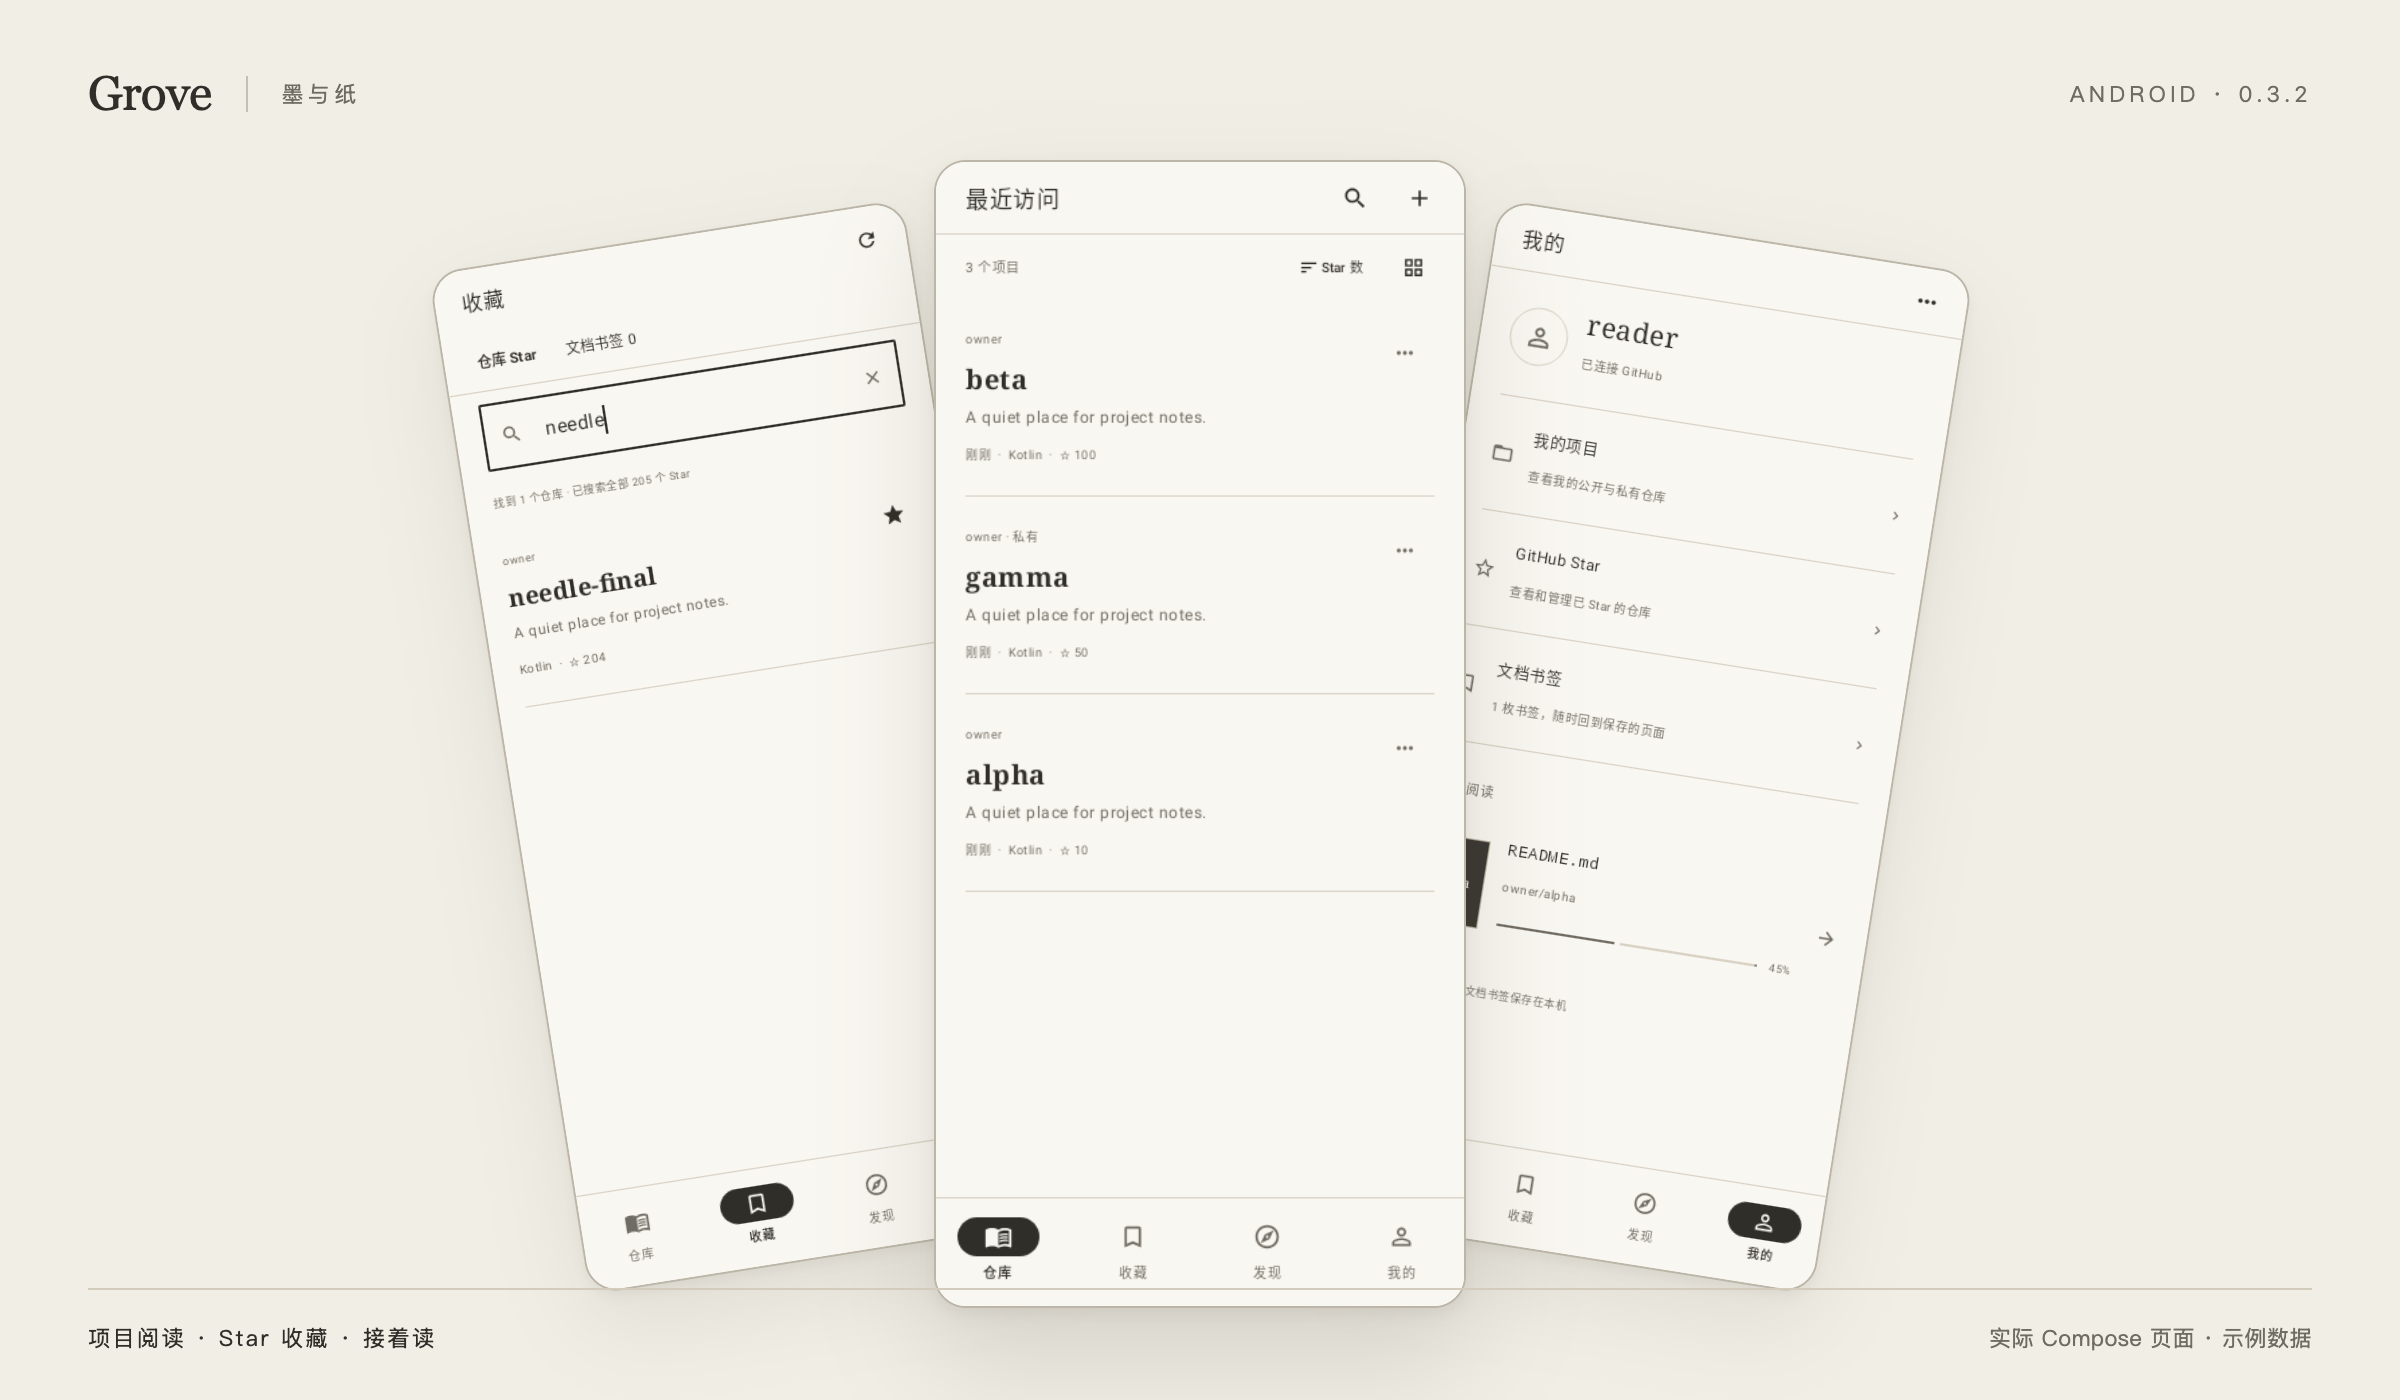
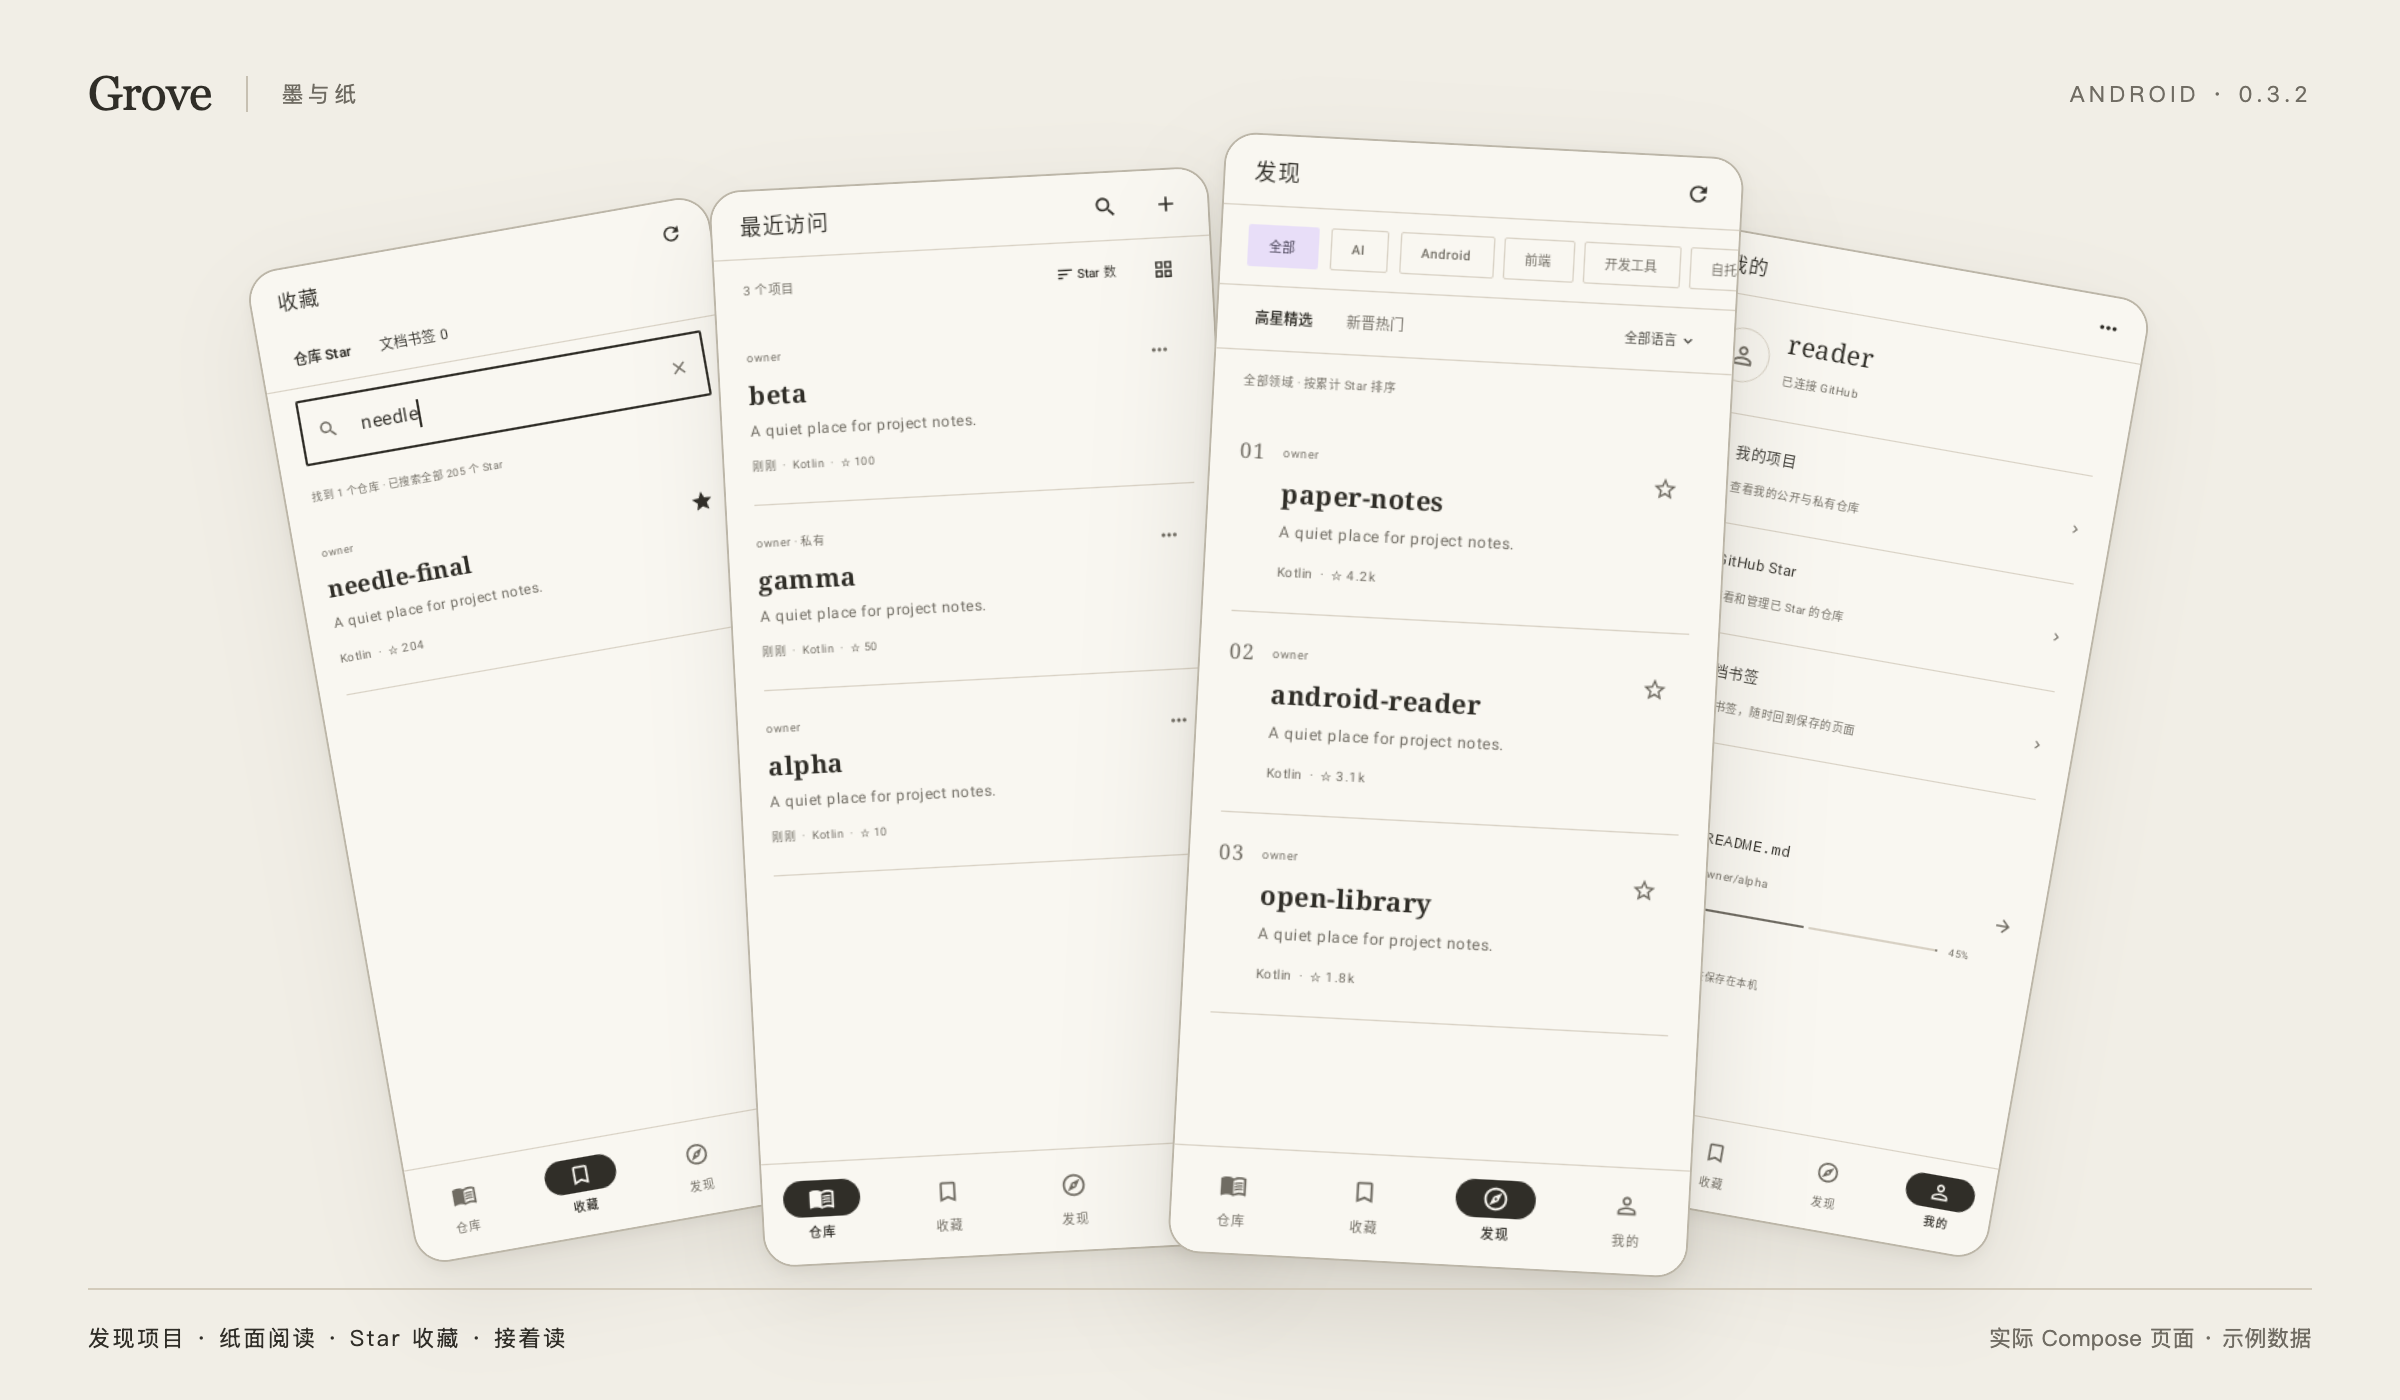
docs: include Discovery in the layered product overview

diff --git a/docs/product-overview.html b/docs/product-overview.html
@@ -14,17 +14,19 @@ header i{height:18px;width:1px;background:#c7c0b2}
 .stage{position:absolute;inset:0;isolation:isolate}
 .screen{position:absolute;border:1px solid #bcb6a8;border-radius:16px;background:#f9f7f1;overflow:hidden;box-shadow:0 18px 44px #423b2b19,0 3px 6px #423b2b10}
 .screen img{display:block;width:100%;height:auto}
-.saved{width:240px;left:253px;top:115px;transform:rotate(-9deg);z-index:1}
-.profile{width:240px;left:708px;top:115px;transform:rotate(9deg);z-index:2}
-.recent{width:266px;left:467px;top:80px;z-index:3;box-shadow:0 28px 55px #423b2b26,0 3px 8px #423b2b15}
+.profile{width:226px;left:810px;top:128px;transform:rotate(10deg);z-index:1}
+.saved{width:234px;left:164px;top:113px;transform:rotate(-10deg);z-index:2}
+.recent{width:250px;left:368px;top:89px;transform:rotate(-3deg);z-index:3}
+.discover{width:260px;left:598px;top:72px;transform:rotate(3deg);z-index:4;box-shadow:0 28px 55px #423b2b26,0 3px 8px #423b2b15}
 footer{position:absolute;bottom:23px;left:44px;right:44px;border-top:1px solid #d3cbbb;padding-top:16px;display:flex;justify-content:space-between;align-items:center;font:11px -apple-system,sans-serif;color:#706c63}
 footer b{font-weight:400;color:#302e28;letter-spacing:1px}
 </style>
 <header><span><strong>Grove</strong><i></i>墨与纸</span><span>ANDROID · 0.3.2</span></header>
-<main class="stage" aria-label="收藏、最近访问与个人页的叠放展示">
+<main class="stage" aria-label="收藏、最近访问、发现与个人页的叠放展示">
  <div class="screen saved"><img src="screenshots/favorites-search.png" alt="收藏页支持搜索全部 Star"></div>
  <div class="screen profile"><img src="screenshots/profile.png" alt="个人页展示我的项目、书签和继续阅读"></div>
  <div class="screen recent"><img src="screenshots/recent-projects.png" alt="最近访问页使用纸面风格展示项目"></div>
+ <div class="screen discover"><img src="screenshots/discovery.png" alt="发现页按领域与语言筛选高星项目"></div>
 </main>
-<footer><b>项目阅读 · Star 收藏 · 接着读</b><span>实际 Compose 页面 · 示例数据</span></footer>
+<footer><b>发现项目 · 纸面阅读 · Star 收藏 · 接着读</b><span>实际 Compose 页面 · 示例数据</span></footer>
 </html>

diff --git a/app/src/test/java/dev/grove/reader/ProfileRepositoriesUiTest.kt b/app/src/test/java/dev/grove/reader/ProfileRepositoriesUiTest.kt
@@ -47,6 +47,7 @@ class ProfileRepositoriesUiTest {
             val params=url.query.orEmpty().split('&').associate{it.substringBefore('=') to it.substringAfter('=')}
             val name=url.path.substringAfterLast('/')
             val body=when {
+                url.path=="/search/repositories" -> JSONObject().put("items",JSONArray(listOf(project("paper-notes",4200),project("android-reader",3100),project("open-library",1800)))).toString()
                 url.path=="/user/repos" -> JSONArray(listOf(project("alpha",10),project("beta",100),project("gamma",50))).toString()
                 url.path=="/user/starred" -> {
                     val count=params["per_page"]?.toInt()?:30;val page=params["page"]?.toInt()?:1
@@ -143,5 +144,14 @@ class ProfileRepositoriesUiTest {
         assertEquals(205,model.state.value.starSearchScanned)
         assertTrue(model.state.value.starSearchComplete)
         snapshot("favorites-search")
+    }
+    @Test fun discoveryShowsCategoriesSortModesAndProjectResults() {
+        compose.runOnIdle{model.navigate(Destination.DISCOVER)};awaitLoad()
+        compose.onNodeWithText("高星精选").assertIsDisplayed()
+        compose.onNodeWithText("新晋热门").assertIsDisplayed()
+        compose.onNodeWithText("全部语言").assertIsDisplayed()
+        compose.onNodeWithText("paper-notes").assertIsDisplayed()
+        compose.onNodeWithText("android-reader").assertIsDisplayed()
+        snapshot("discovery")
     }
 }

diff --git a/docs/screenshots/README.md b/docs/screenshots/README.md
@@ -1,8 +1,8 @@
 # 界面图
 
-`recent-projects.png`、`favorites-search.png` 和 `profile.png` 来自 0.3.2 的 Compose / Robolectric 原生图形测试，使用测试账号与示例项目，不含真实用户数据。它们展示实际 Compose 页面，仍不能替代真机验收。
+`recent-projects.png`、`favorites-search.png`、`discovery.png` 和 `profile.png` 来自 0.3.2 的 Compose / Robolectric 原生图形测试，使用测试账号与示例项目，不含真实用户数据。它们展示实际 Compose 页面，仍不能替代真机验收。
 
-README 使用 `overview.png` 展示三页叠放的效果。布局源文件为 `../product-overview.html`；截图内容保持原样，通过 HTML / CSS 排版生成组合图。
+README 使用 `overview.png` 展示四页叠放的效果，发现页置于前景。布局源文件为 `../product-overview.html`；截图内容保持原样，通过 HTML / CSS 排版生成组合图。
 
 重新运行原生页面测试可更新原图：
 

diff --git a/README.md b/README.md
@@ -5,7 +5,7 @@
 **Android 8.0+ · Kotlin + Jetpack Compose · 开发版 0.3.2**
 
 <p align="center">
-  <img src="docs/screenshots/overview.png" width="900" alt="Grove 产品界面：收藏搜索、最近访问和个人页，三张实际页面叠放展示">
+  <img src="docs/screenshots/overview.png" width="900" alt="Grove 产品界面：收藏搜索、最近访问、发现和个人页，四张实际页面叠放展示">
 </p>
 
 <sub>实际 Compose 页面，使用示例数据在 Robolectric 原生图形模式下渲染；尚未完成真机验收。</sub>
